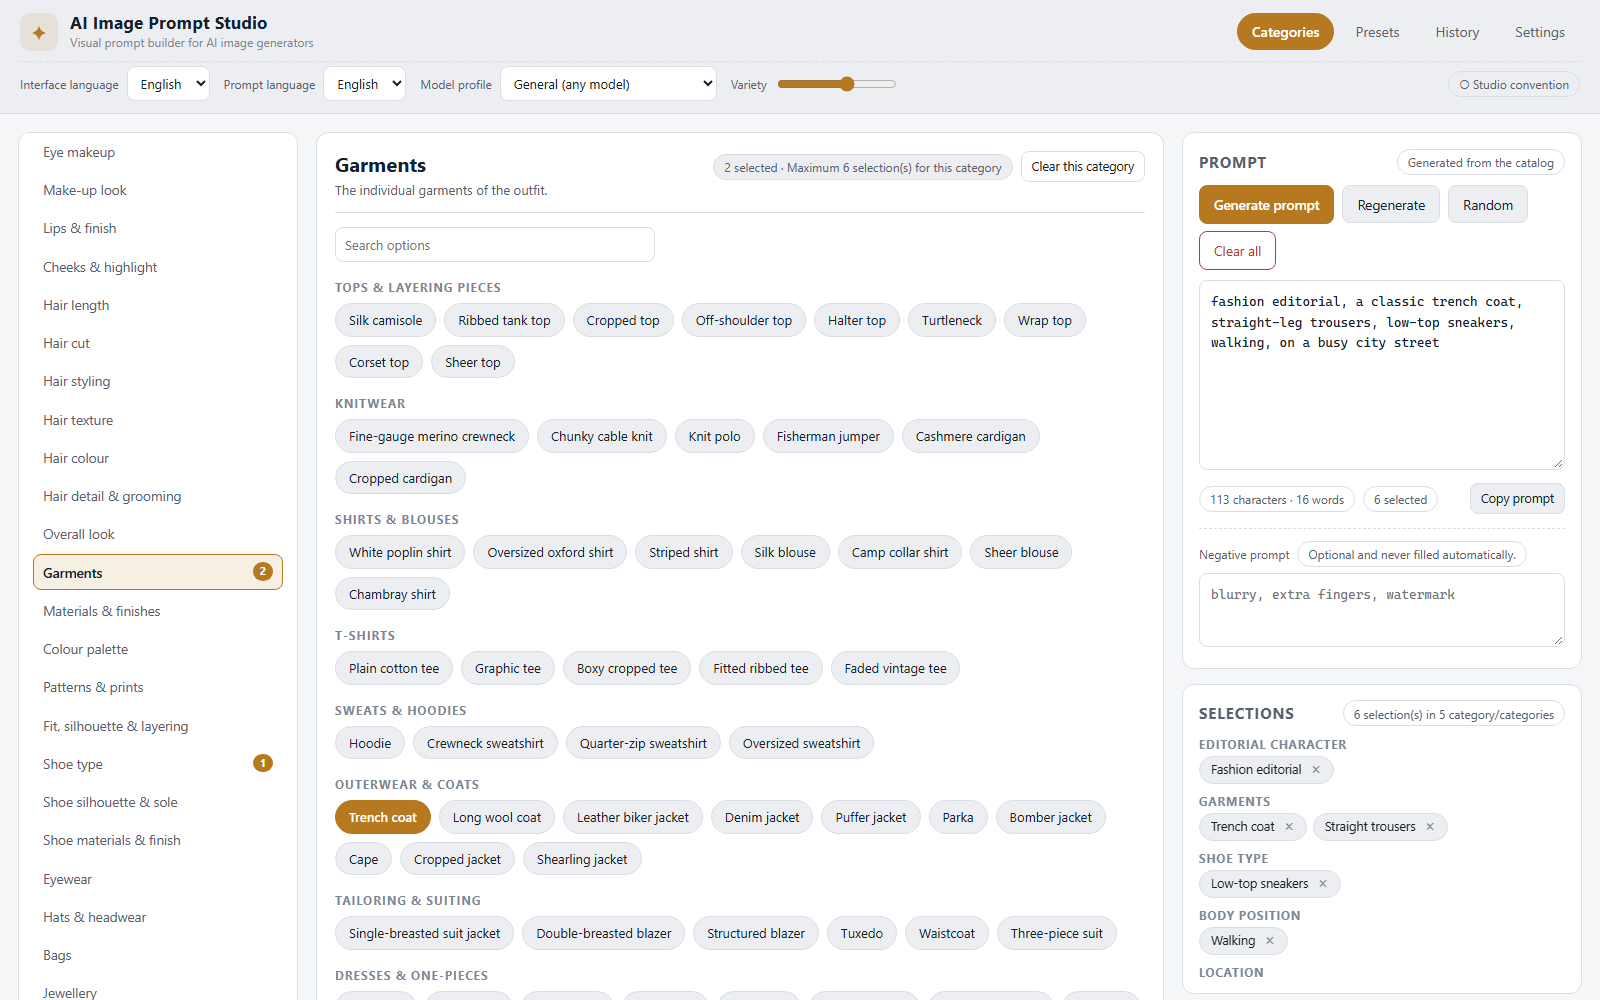
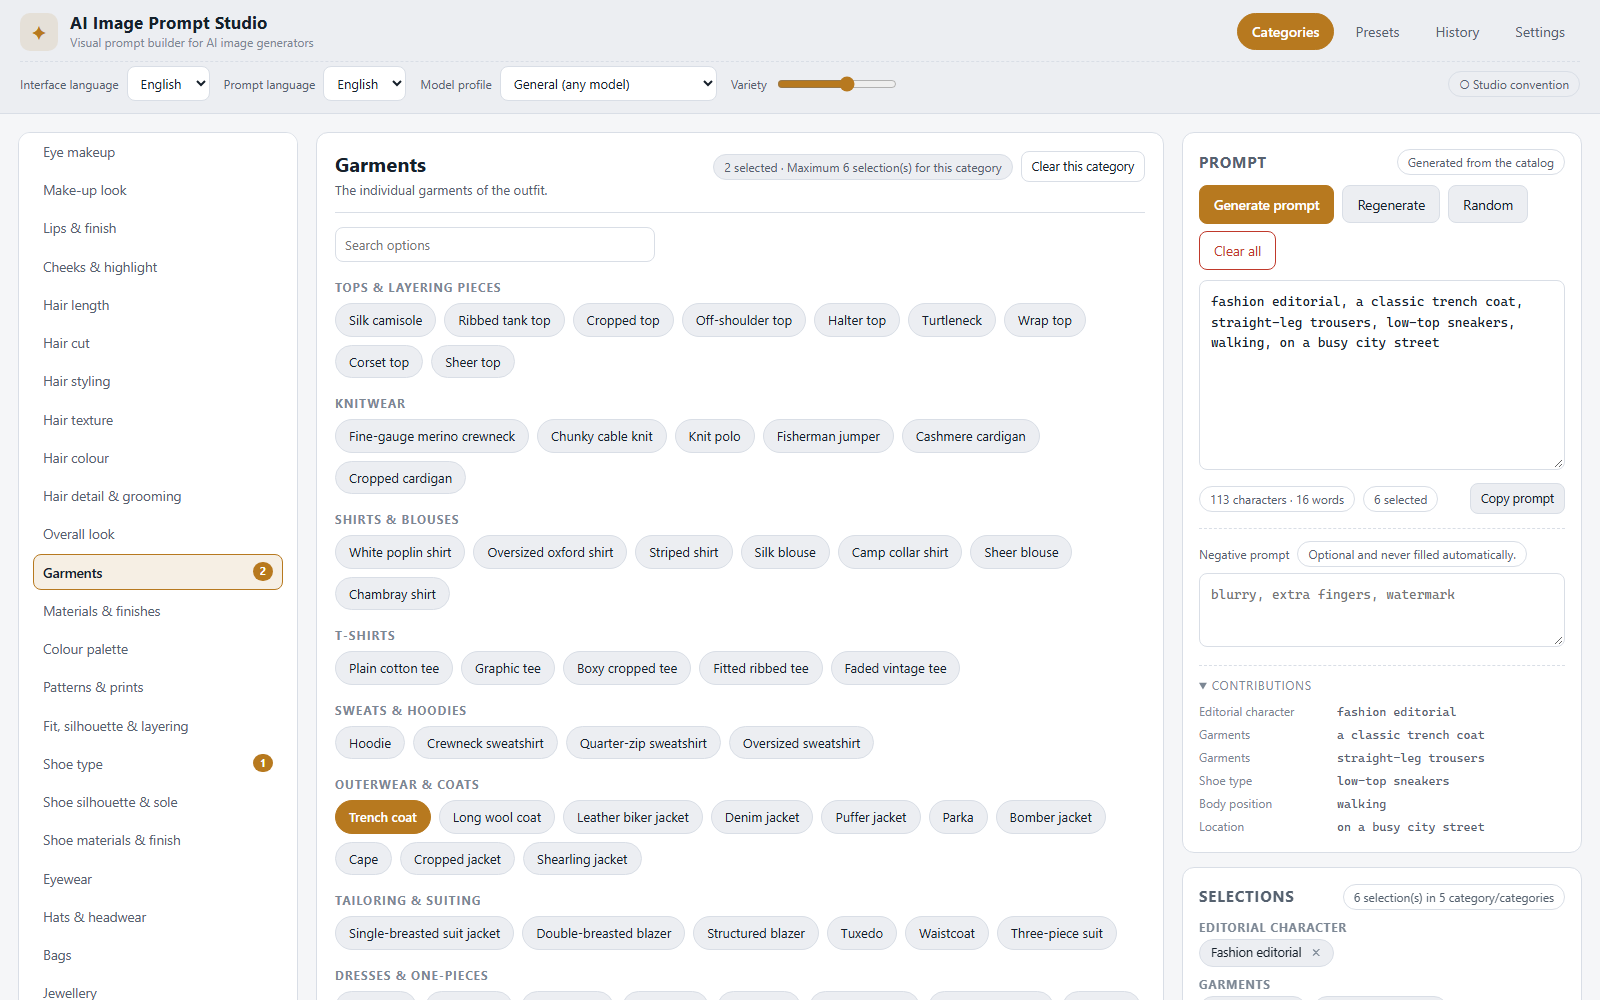
feat: show the per-category prompt contributions and the profile examples

Changed region(s): [[0.75, 0.682, 0.9688, 1.0]]

diff --git a/src/state/preset-io.ts b/src/state/preset-io.ts
@@ -1,0 +1,78 @@
+/**
+ * Preset import and export.
+ *
+ * The format is plain JSON so a preset file can be inspected, edited by hand
+ * and shared. The import is defensive: a broken file never destroys the
+ * existing presets.
+ */
+import type { Preset } from './persistence';
+
+export const PRESET_EXPORT_KIND = 'preset-export';
+export const PRESET_EXPORT_VERSION = 1;
+
+export interface PresetExport {
+  kind: typeof PRESET_EXPORT_KIND;
+  version: number;
+  exportedAt: string;
+  presets: Preset[];
+}
+
+/** Build the export payload. */
+export function buildPresetExport(presets: Preset[], now = new Date()): PresetExport {
+  return {
+    kind: PRESET_EXPORT_KIND,
+    version: PRESET_EXPORT_VERSION,
+    exportedAt: now.toISOString(),
+    presets,
+  };
+}
+
+/** Serialise the presets. */
+export function serializePresets(presets: Preset[], now = new Date()): string {
+  return JSON.stringify(buildPresetExport(presets, now), null, 2);
+}
+
+/**
+ * Parse a preset file.
+ *
+ * @returns the imported presets, or the reason why the file was refused.
+ */
+export function parsePresetImport(raw: string): { presets?: Preset[]; error?: string } {
+  let parsed: unknown;
+  try {
+    parsed = JSON.parse(raw);
+  } catch {
+    return { error: 'The file is not valid JSON.' };
+  }
+  if (typeof parsed !== 'object' || parsed === null) {
+    return { error: 'The file does not contain a preset export.' };
+  }
+  const candidate = parsed as Partial<PresetExport>;
+  if (candidate.kind !== PRESET_EXPORT_KIND) {
+    return { error: 'The file does not contain a preset export.' };
+  }
+  if (!Array.isArray(candidate.presets)) {
+    return { error: 'The preset export contains no presets.' };
+  }
+  const presets: Preset[] = [];
+  for (const item of candidate.presets) {
+    if (typeof item !== 'object' || item === null) continue;
+    if (typeof item.id !== 'string' || typeof item.name !== 'string') continue;
+    const selections: Preset['selections'] = {};
+    if (typeof item.selections === 'object' && item.selections !== null) {
+      for (const [categoryId, ids] of Object.entries(item.selections)) {
+        if (!Array.isArray(ids)) continue;
+        const clean = ids.filter((id): id is string => typeof id === 'string');
+        if (clean.length > 0) selections[categoryId] = clean;
+      }
+    }
+    presets.push({
+      id: item.id,
+      name: item.name,
+      createdAt: typeof item.createdAt === 'string' ? item.createdAt : new Date(0).toISOString(),
+      profileId: typeof item.profileId === 'string' ? item.profileId : 'general',
+      selections,
+    });
+  }
+  return { presets };
+}

diff --git a/src/state/preset-io.test.ts b/src/state/preset-io.test.ts
@@ -1,0 +1,58 @@
+import { describe, expect, it } from 'vitest';
+import { buildPresetExport, parsePresetImport, serializePresets, PRESET_EXPORT_KIND } from './preset-io';
+import type { Preset } from './persistence';
+
+const preset: Preset = {
+  id: 'p1',
+  name: 'Autumn street style',
+  createdAt: '2026-10-01T10:00:00.000Z',
+  profileId: 'flux2',
+  selections: { 'subject.look': ['subject.look.streetwear'] },
+};
+
+describe('preset import and export', () => {
+  it('round-trips the presets', () => {
+    const text = serializePresets([preset], new Date('2026-10-21T00:00:00.000Z'));
+    const result = parsePresetImport(text);
+    expect(result.error).toBeUndefined();
+    expect(result.presets).toHaveLength(1);
+    expect(result.presets?.[0]?.name).toBe('Autumn street style');
+    expect(result.presets?.[0]?.selections).toEqual(preset.selections);
+    expect(result.presets?.[0]?.profileId).toBe('flux2');
+  });
+
+  it('writes a readable export', () => {
+    const payload = buildPresetExport([preset]);
+    expect(payload.kind).toBe(PRESET_EXPORT_KIND);
+    expect(payload.version).toBe(1);
+    expect(payload.presets).toHaveLength(1);
+  });
+
+  it('refuses a file that is not a preset export', () => {
+    expect(parsePresetImport('not json').error).toBeDefined();
+    expect(parsePresetImport('{"kind":"other"}').error).toBeDefined();
+    expect(parsePresetImport('{"kind":"preset-export"}').error).toBeDefined();
+  });
+
+  it('skips the broken presets inside a valid file', () => {
+    const text = JSON.stringify({
+      kind: PRESET_EXPORT_KIND,
+      version: 1,
+      presets: [{ nope: true }, { id: 'p2', name: 'Second' }],
+    });
+    const result = parsePresetImport(text);
+    expect(result.presets).toHaveLength(1);
+    expect(result.presets?.[0]?.id).toBe('p2');
+    expect(result.presets?.[0]?.selections).toEqual({});
+  });
+
+  it('discards the selection ids that are not strings', () => {
+    const text = JSON.stringify({
+      kind: PRESET_EXPORT_KIND,
+      version: 1,
+      presets: [{ id: 'p3', name: 'Third', selections: { 'subject.look': ['a', 5, null] } }],
+    });
+    const result = parsePresetImport(text);
+    expect(result.presets?.[0]?.selections).toEqual({ 'subject.look': ['a'] });
+  });
+});

diff --git a/src/ui/components/PromptPanel.tsx b/src/ui/components/PromptPanel.tsx
@@ -1,13 +1,29 @@
 import { useMemo } from 'react';
+import { buildPrompt } from '../../engine/prompt';
+import { getGeneralProfile, getProfile } from '../../models/profiles';
 import { useApp } from '../../state/AppProvider';
 import { useActions } from '../useActions';
 import { useT } from '../useT';
 
 /** Prompt preview, negative prompt and the global actions. */
 export function PromptPanel() {
-  const { state, dispatch, stale, copyPrompt, copyBoth } = useApp();
+  const { state, dispatch, catalog, stale, copyPrompt, copyBoth } = useApp();
   const t = useT();
   const { generate, regenerate, random, clearAll, selectionCount } = useActions();
+
+  const fragments = useMemo(() => {
+    const activeProfile = getProfile(state.preferences.profileId) ?? getGeneralProfile();
+    return buildPrompt({
+      catalog,
+      selections: state.selections,
+      profile: activeProfile,
+      promptLocale: state.preferences.promptLocale,
+    }).fragments;
+  }, [catalog, state.selections, state.preferences.profileId, state.preferences.promptLocale]);
+
+  const categoryTitle = (categoryId: string) =>
+    catalog.categories.find((category) => category.id === categoryId)?.name[state.preferences.uiLocale] ??
+    categoryId;
 
   const stats = useMemo(() => {
     const text = state.prompt.trim();
@@ -89,6 +105,22 @@ export function PromptPanel() {
           onChange={(event) => dispatch({ type: 'set-negative', negative: event.target.value })}
         />
       </div>
+
+      <details className="contributions">
+        <summary>{t('prompt.fragments')}</summary>
+        {fragments.length === 0 ? (
+          <p className="empty">{t('prompt.noFragments')}</p>
+        ) : (
+          <ol className="fragment-list">
+            {fragments.map((fragment) => (
+              <li key={fragment.entryId}>
+                <span className="fragment-category">{categoryTitle(fragment.categoryId)}</span>
+                <span className="fragment-text">{fragment.text}</span>
+              </li>
+            ))}
+          </ol>
+        )}
+      </details>
     </section>
   );
 }

diff --git a/src/ui/components/PresetsPanel.tsx b/src/ui/components/PresetsPanel.tsx
@@ -1,5 +1,6 @@
 import { useMemo, useState } from 'react';
 import type { Preset } from '../../state/persistence';
+import { parsePresetImport, serializePresets } from '../../state/preset-io';
 import { useApp } from '../../state/AppProvider';
 import { useT } from '../useT';
 
@@ -27,11 +28,7 @@ export function PresetsPanel() {
   };
 
   const exportPresets = () => {
-    const payload = JSON.stringify(
-      { kind: 'preset-export', version: 1, presets: state.presets },
-      null,
-      2,
-    );
+    const payload = serializePresets(state.presets);
     try {
       const blob = new Blob([payload], { type: 'application/json' });
       const url = URL.createObjectURL(blob);
@@ -48,16 +45,15 @@ export function PresetsPanel() {
 
   const importPresets = (file: File) => {
     void file.text().then((text) => {
-      try {
-        const parsed = JSON.parse(text) as { kind?: string; presets?: Preset[] };
-        if (parsed.kind !== 'preset-export' || !Array.isArray(parsed.presets)) throw new Error('invalid');
-        dispatch({ type: 'import-presets', presets: parsed.presets });
-        dispatch({ type: 'toast', message: 'presets.imported' });
-        setImportError(null);
-      } catch {
-        setImportError(t('presets.importFail'));
+      const result = parsePresetImport(text);
+      if (!result.presets) {
+        setImportError(result.error ?? t('presets.importFail'));
         dispatch({ type: 'toast', message: 'presets.importFail', kind: 'error' });
+        return;
       }
+      dispatch({ type: 'import-presets', presets: result.presets });
+      dispatch({ type: 'toast', message: 'presets.imported' });
+      setImportError(null);
     });
   };
 

diff --git a/src/styles.css b/src/styles.css
@@ -723,6 +723,83 @@ input[type='range'] {
   margin-bottom: 6px;
 }
 
+.contributions {
+  margin-top: 12px;
+  border-top: 1px dashed var(--border);
+  padding-top: 10px;
+}
+
+.contributions summary {
+  cursor: pointer;
+  font-size: 12px;
+  text-transform: uppercase;
+  letter-spacing: 0.06em;
+  color: var(--text-faint);
+}
+
+.fragment-list {
+  list-style: none;
+  margin: 8px 0 0;
+  padding: 0;
+  display: flex;
+  flex-direction: column;
+  gap: 4px;
+  max-height: 180px;
+  overflow: auto;
+}
+
+.fragment-list li {
+  display: flex;
+  gap: 8px;
+  align-items: baseline;
+  font-size: 12px;
+}
+
+.fragment-category {
+  color: var(--text-faint);
+  min-width: 130px;
+  flex-shrink: 0;
+}
+
+.fragment-text {
+  font-family: var(--mono);
+  color: var(--text-dim);
+  word-break: break-word;
+}
+
+.profile-subtitle {
+  font-size: 12px;
+  text-transform: uppercase;
+  letter-spacing: 0.06em;
+  color: var(--text-faint);
+  margin: 12px 0 6px;
+}
+
+.profile-examples {
+  list-style: none;
+  margin: 0;
+  padding: 0;
+  display: flex;
+  flex-direction: column;
+  gap: 8px;
+}
+
+.profile-examples li {
+  display: flex;
+  flex-direction: column;
+  gap: 3px;
+  font-size: 12px;
+}
+
+.profile-examples code {
+  font-family: var(--mono);
+  background: var(--bg);
+  border: 1px solid var(--border);
+  border-radius: var(--radius-sm);
+  padding: 7px 9px;
+  word-break: break-word;
+}
+
 /* ----------------------------------------------------------- summary/checks */
 
 .summary-groups {

diff --git a/src/ui/components/SettingsPanel.tsx b/src/ui/components/SettingsPanel.tsx
@@ -188,6 +188,20 @@ export function SettingsPanel() {
                 </span>
               </dd>
             </dl>
+
+            {profile.examples && profile.examples.length > 0 && (
+              <>
+                <h4 className="profile-subtitle">{t('prompt.examples')}</h4>
+                <ul className="profile-examples">
+                  {profile.examples.map((example) => (
+                    <li key={example.prompt}>
+                      <code>{example.prompt}</code>
+                      {example.note && <span className="muted">{example.note[locale]}</span>}
+                    </li>
+                  ))}
+                </ul>
+              </>
+            )}
           </div>
         </div>
 

diff --git a/src/i18n/it.ts b/src/i18n/it.ts
@@ -74,6 +74,7 @@ export const it: Dictionary = {
   'prompt.copyFail': 'Copia non riuscita. Seleziona il testo e copialo a mano.',
   'prompt.fragments': 'Contributi',
   'prompt.noFragments': 'Ancora nessun contributo.',
+  'prompt.examples': 'Esempi',
 
   'warnings.title': 'Controlli',
   'warnings.none': 'Nessun conflitto o ridondanza rilevata.',

diff --git a/src/i18n/en.ts b/src/i18n/en.ts
@@ -72,6 +72,7 @@ export const en = {
   'prompt.copyFail': 'Copy failed. Select the text and copy it manually.',
   'prompt.fragments': 'Contributions',
   'prompt.noFragments': 'No contribution yet.',
+  'prompt.examples': 'Examples',
 
   'warnings.title': 'Checks',
   'warnings.none': 'No conflicts or redundancies detected.',
